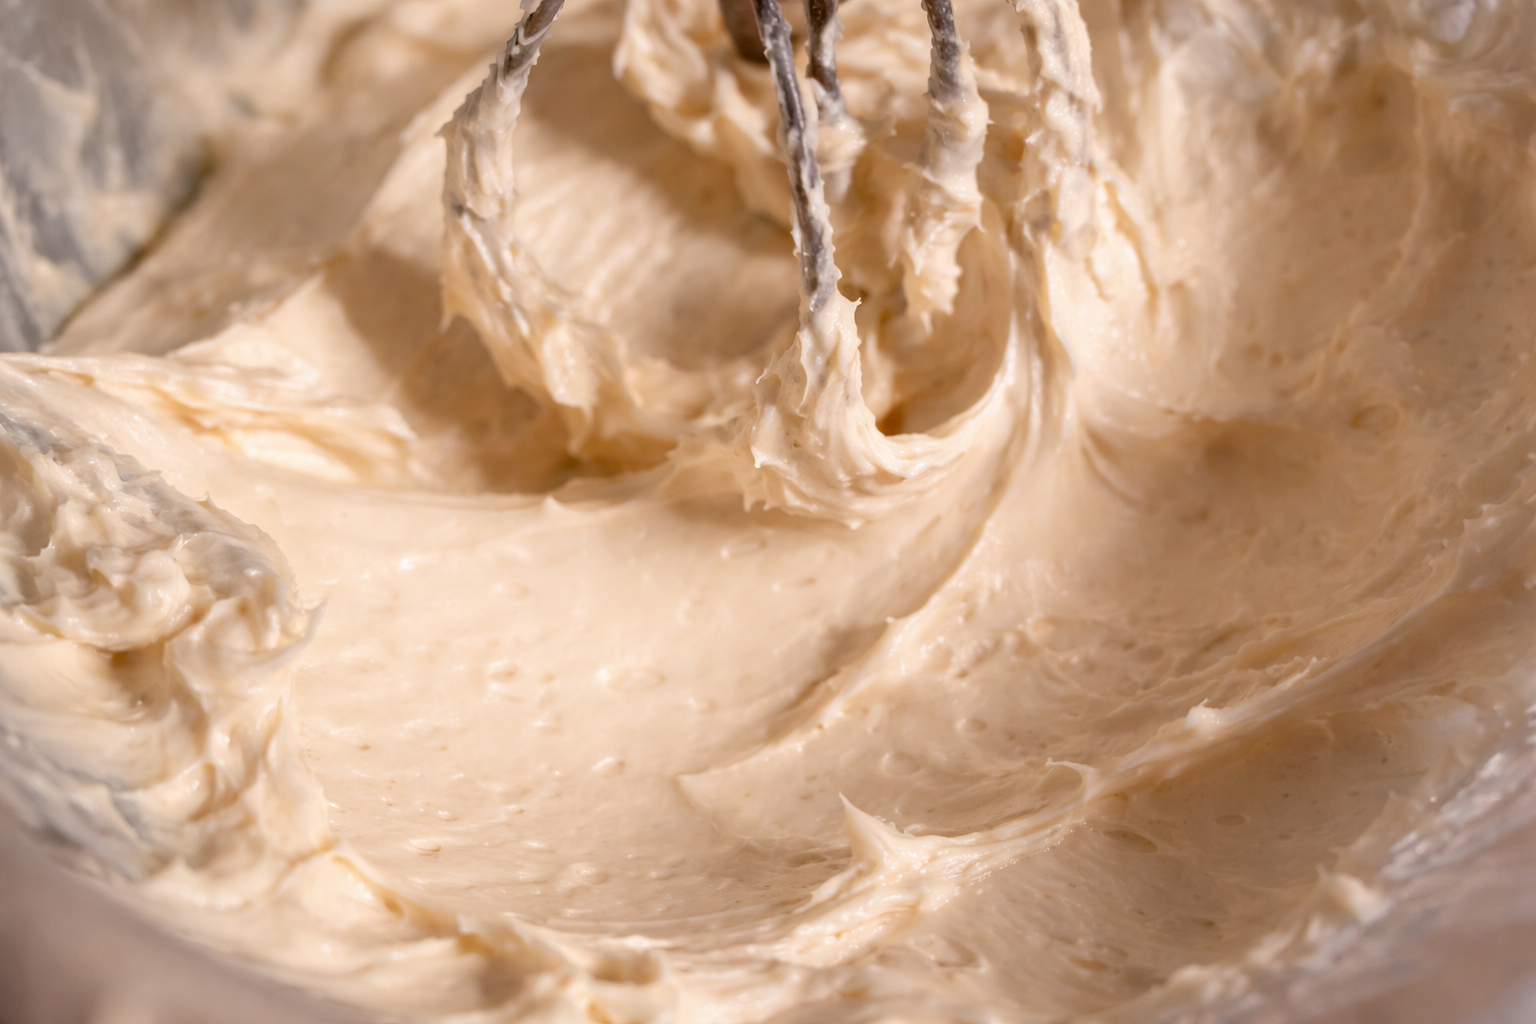
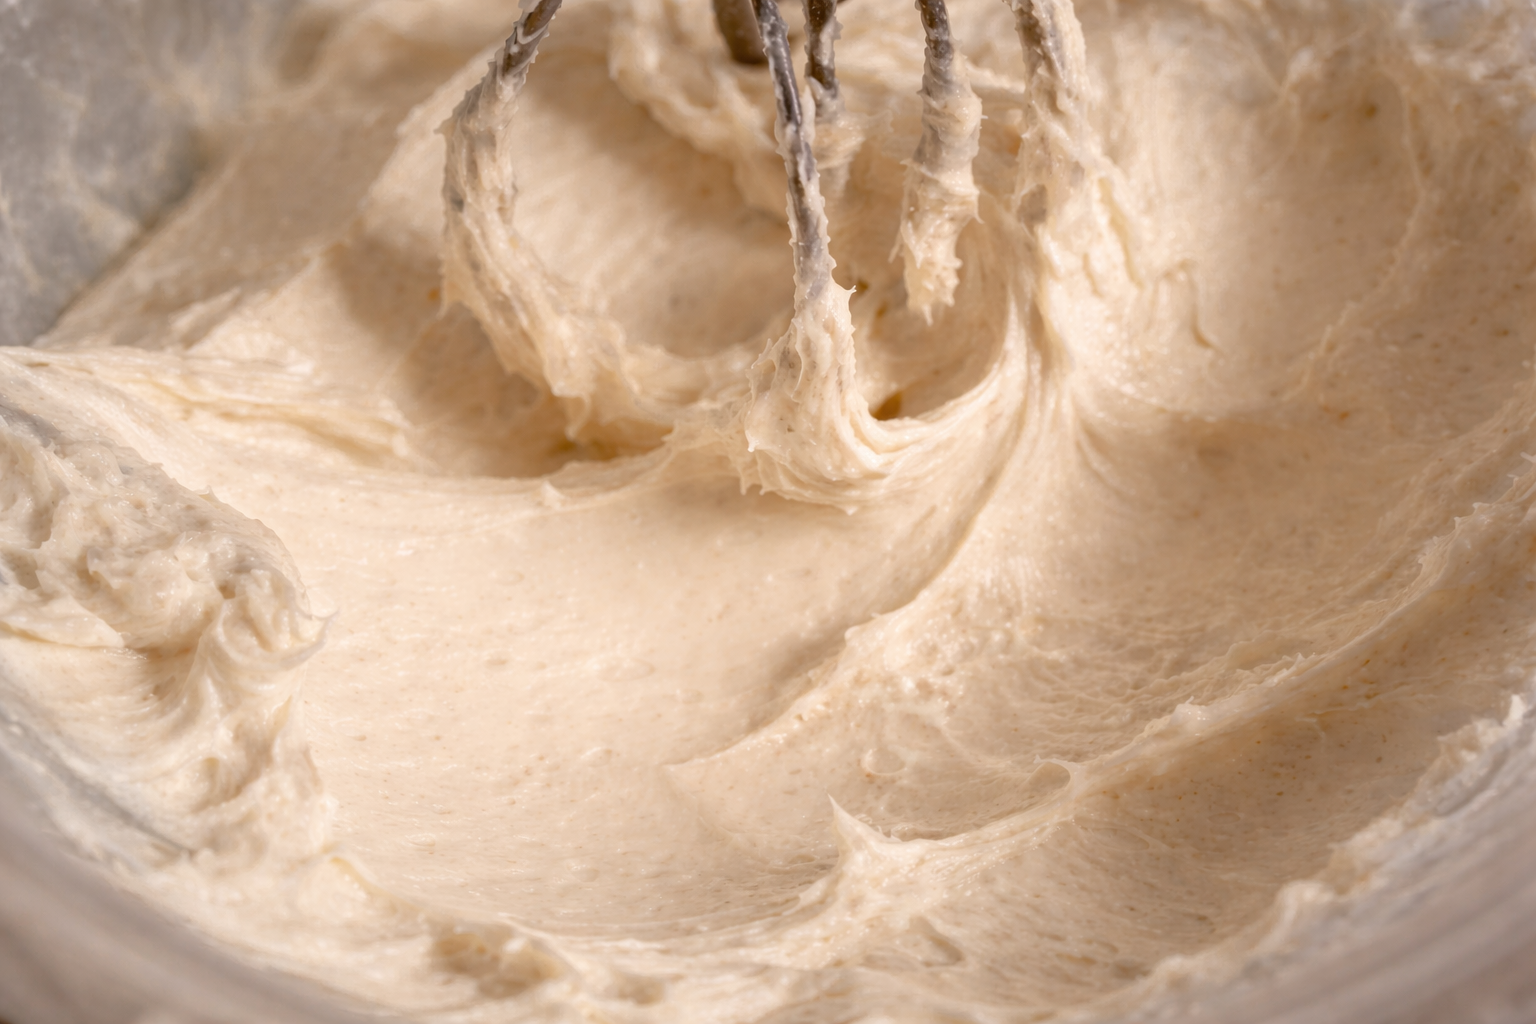
feat(home-page): Add sections to home page

diff --git a/resources/js/pages/Home.vue b/resources/js/pages/Home.vue
@@ -7,8 +7,69 @@
         <main class="home-page">
             <div>   
                 <section class="hero-section"> 
-                    <h1 class="page-title">Finden Sie passende<br />Konditor/-innen und Bäcker/-innen</h1>
-                    <ArtisansSearch />
+                    <h2 class="title">Gewinnen Sie lokale Kunden ohne Aufwand.</h2> 
+                    <h3 class="subtitle">Erweitern Sie Ihre Klientel und zeigen Sie Kunden Ihre Kreationen.</h3>                   
+                    <div class="cta">
+                        <a 
+                            class="button button--primary button--large"
+                            href="/register" 
+                            target="_blank"
+                        >
+                            Profil erstellen
+                        </a>
+                        <a 
+                            class="cta__link" 
+                            href="/search" 
+                            target="_blank"
+                        >
+                            Anbietende entdecken
+                            <ChevronRightIcon :size="20" />
+                        </a>
+                    </div>
+                </section>
+                <section class="how-it-works-section">
+                    <h1 class="title">So funktioniert es</h1>
+                    <div>
+                        <ul class="how-it-works__steps">
+                            <li class="how-it-works__step">
+                                <div class="icon-wrapper">
+                                    <UserPlusIcon color="#e680a5" :size="40" />
+                                </div>
+                                <p>Einfache Registrierung</p>
+                            </li>
+                            <li class="how-it-works__step">
+                                <div class="icon-wrapper"><RocketIcon color="#e680a5" :size="40" /></div>
+                                <p>Profil erstellen und veröffentlichen</p>
+                            </li>
+                            <li class="how-it-works__step">
+                                <div class="icon-wrapper"><MessageCircleIcon color="#e680a5" :size="40" /></div>
+                                <p>Anfragen von KundInnen bekommen</p>
+                            </li>
+                        </ul>
+                    </div>
+                </section>
+                <section class="advantages-section">
+                    <h2 class="title">Ihre Vorteile</h2>
+                    <div>
+                        <ul class="advantages">
+                            <li class="advantage">
+                                <span class="advantages-highlight">1</span>
+                                <p>Sofortige lokale Sichtbarkeit</p>
+                            </li>
+                            <li class="advantage">
+                                <span class="advantages-highlight">2</span>
+                                <p>Kostenlose Nutzung zum Start</p>
+                            </li>
+                            <li class="advantage">
+                                <span class="advantages-highlight">3</span>
+                                <p>Kein Vertragszwang</p>
+                            </li>
+                            <li class="advantage">
+                                <span class="advantages-highlight">4</span>
+                                <p>Direkte Nachrichten von Kunden</p>
+                            </li>
+                        </ul>
+                    </div>
                 </section>
             </div>
         </main>
@@ -18,21 +79,50 @@
 <script setup lang="ts">
 import { Head } from "@inertiajs/vue3";
 
+import { 
+    ChevronRightIcon, 
+    UserPlusIcon, 
+    RocketIcon, 
+    MessageCircleIcon,
+} from "lucide-vue-next";
+
 import AppLayout from "@/layout/AppLayout.vue";
-import ArtisansSearch from "@/components/search/ArtisansSearch.vue";
 </script>
 
-<style scoped>
-.home-page {
-    --title-font-weight: 400;
-    --title-font-size: 2rem;
+<style scoped lang="scss">
+@use '../../css/abstracts/breakpoints' as breakpoints; 
 
-    .page-title {
-        font-weight: var(--title-font-weight);
+ul li {
+    list-style: none;
+}
+
+.home-page {
+    --title-font-weight: 600;
+    --title-font-size: 2.5rem;
+    --subtitle-font-size: 1.5rem;
+    --subtitle-font-weight: 500;
+    --cta-background-color-secondary: #fff3;
+
+    .icon-wrapper {
+        background: var(--color-primary-10);
+        padding: 1rem;
+        border-radius: 50%;
+        display: inline-flex;
+    }
+
+    .title {
         font-size: var(--title-font-size);
-        color: var(--color-neutral-50);
+        font-weight: var(--title-font-weight);
+        color: var(--color-neutral-0);
         text-align: center;
         width: 100%;
+    }
+
+    .subtitle {
+        font-size: var(--subtitle-font-size);
+        font-weight: var(--subtitle-font-weight);
+        color: var(--color-neutral-0);
+        text-align: center;
     }
 
     .hero-section {
@@ -41,12 +131,96 @@ import ArtisansSearch from "@/components/search/ArtisansSearch.vue";
         justify-content: center;
         align-items: center;
         row-gap: 24px;
-        background-image: url("../../images/butter-cream.webp");
+        background-image: linear-gradient(to top, rgba(0,0,0,0.25), rgba(0,0,0,0.25), transparent), url("../../images/butter-cream.webp");
         background-position: center;
         background-size: cover;
         background-repeat: no-repeat;
         padding: 18px;
-        min-height: 75vh;
+        min-height: 85vh;
+
+        .cta {
+            &__link {
+                font-weight: 600;
+                color: var(--color-neutral-0);
+                background-color: var(--cta-background-color-secondary);
+                display: flex;
+                justify-content: center;
+                align-items: center;
+                column-gap: 12px;
+                border-radius: 5px;
+                padding: 14px 24px;
+                margin-top: 24px;
+            }
+        }
+    }
+
+    .how-it-works-section {
+        background-color: var(--color-secondary-10);
+        padding: 54px 0;
+
+        > .title {
+            color: var(--color-secondary-50);
+            padding: 0 18px;
+        }
+
+        .how-it-works {
+            &__steps {
+                display: flex;
+                flex-direction: column;
+                justify-content: center;
+                flex-wrap: wrap;
+                gap: 30px;
+                margin: 30px 0;
+            }
+
+            &__step {
+                display: flex;
+                flex-direction: column;
+                align-items: center;
+                gap: 12px;
+            }
+
+            @include breakpoints.respond-to('large') {
+                &__steps {
+                    flex-direction: row;
+                }
+            }
+        }
+    }
+
+    .advantages-section {
+        padding: 54px 32px;
+
+        > .title {
+            color: var(--color-neutral-50);
+        }
+
+        .advantages {
+            display: grid;
+            grid-template-columns: repeat(auto-fit, minmax(126px, 1fr));
+            gap: 30px;
+            margin: 30px;
+        }
+
+        .advantage {
+            display: flex;
+            flex-direction: column;
+            gap: 12px;
+
+            > .advantages-highlight {
+                font-size: 2rem;
+                font-weight: 700;
+                color: var(--color-primary-0);
+                background-color: var(--color-primary-50);
+                display: flex;
+                justify-content: center;
+                align-items: center;
+                padding: 1rem;
+                border-radius: 50%;
+                width: 50px;
+                height: 50px;
+            }
+        }
     }
 }
 </style>

diff --git a/resources/js/components/search/ArtisansSearch.vue b/resources/js/components/search/ArtisansSearch.vue
@@ -1,20 +1,20 @@
 <template>
-	<RekaDialog title="Suche" v-model:open="searchDialogIsOpen">
+	<RekaDialog 
+		title="Suche" 
+		v-model:open="searchDialogIsOpen"
+	>
 		<template #trigger>
 			<button
 				class="search-button button button--with-icon button--medium"
 				type="button" 
-				variant="primary" 
-				layout="with-icon"
-				size="large"
 			>
 				Suchen
 				<SlidersHorizontalIcon />
 			</button>
 		</template>
 		<template #default>
-			<form @submit.prevent="onSearch">
-				<div class="artisans-search-form">
+			<form class="artisans-search-form" @submit.prevent="onSearch">
+				<div class="search-form-content">
 					<div class="address-filter">
 						<AddressSearchInput 
 							:text="form.address_query"
@@ -238,22 +238,15 @@ onMounted(async () => {
     background-color: var(--color-neutral-0);
     color: var(--color-primary-50);
 	padding: 14px 25px;
+	margin-top: 16px;
     border-radius: 24px;
 }
 
-.artisans-search-form {
+.search-form-content {
+	padding: 1.5rem;
 	margin-top: 24px;
-	overflow: auto;
-	-ms-overflow-style: none;  /* IE and Edge */
-	scrollbar-width: none;  /* Firefox */
-
-	&::-webkit-scrollbar {
-		display: none;
-	}
-
-	@media (max-height: 800px) {
-		max-height: 650px;
-	}
+	overflow: auto; 
+	max-height: calc(100vh - 242px);
 
 	.address-filter {
 		margin-bottom: 20px;
@@ -262,12 +255,6 @@ onMounted(async () => {
 	.search-artisans-button {
 		margin-top: 20px;
 		width: 100%;
-	}
-
-	@media (max-height: 668px) {
-		max-height: 420px;
-		overflow-y: auto;
-		scrollbar-width: none;
 	}
 }
 
@@ -306,5 +293,11 @@ onMounted(async () => {
 	.price-levels-wrapper {
 		margin-top: 16px;
 	}
+}
+</style>
+
+<style lang="scss">
+.search-dialog-content {
+	padding: 2rem 1rem;
 }
 </style>

diff --git a/resources/css/base/_root.scss b/resources/css/base/_root.scss
@@ -4,6 +4,7 @@
     --color-primary-20: #f9e0e9;
     --color-primary-30: #f0b2c9;
     --color-primary-50: #e680a5;
+    --color-secondary-10: #c8aaa7;
     --color-secondary-50: #5a3535;
     --color-neutral-0: #ffffff;
     --color-neutral-10: #e0e0e0;

diff --git a/resources/js/components/search/AddressSearchInput.vue b/resources/js/components/search/AddressSearchInput.vue
@@ -47,7 +47,7 @@ import { get } from "@/api";
 import type { AddressSuggestion } from "@/types/search";
 
 const MIN_ADDRESS_LENGHT = 3;
-const DEBOUNCE_DELAY = 300;
+const DEBOUNCE_DELAY = 200;
 let currentTimeout = 0;
 
 const props = defineProps<{

diff --git a/resources/js/components/presentation/AppFooter.vue b/resources/js/components/presentation/AppFooter.vue
@@ -1,5 +1,5 @@
 <template>
     <footer class="app-footer">
-        <div>&copy; 2025 delicious</div>
+        <div>&copy; 2026 deliciousthings</div>
     </footer>
 </template>
